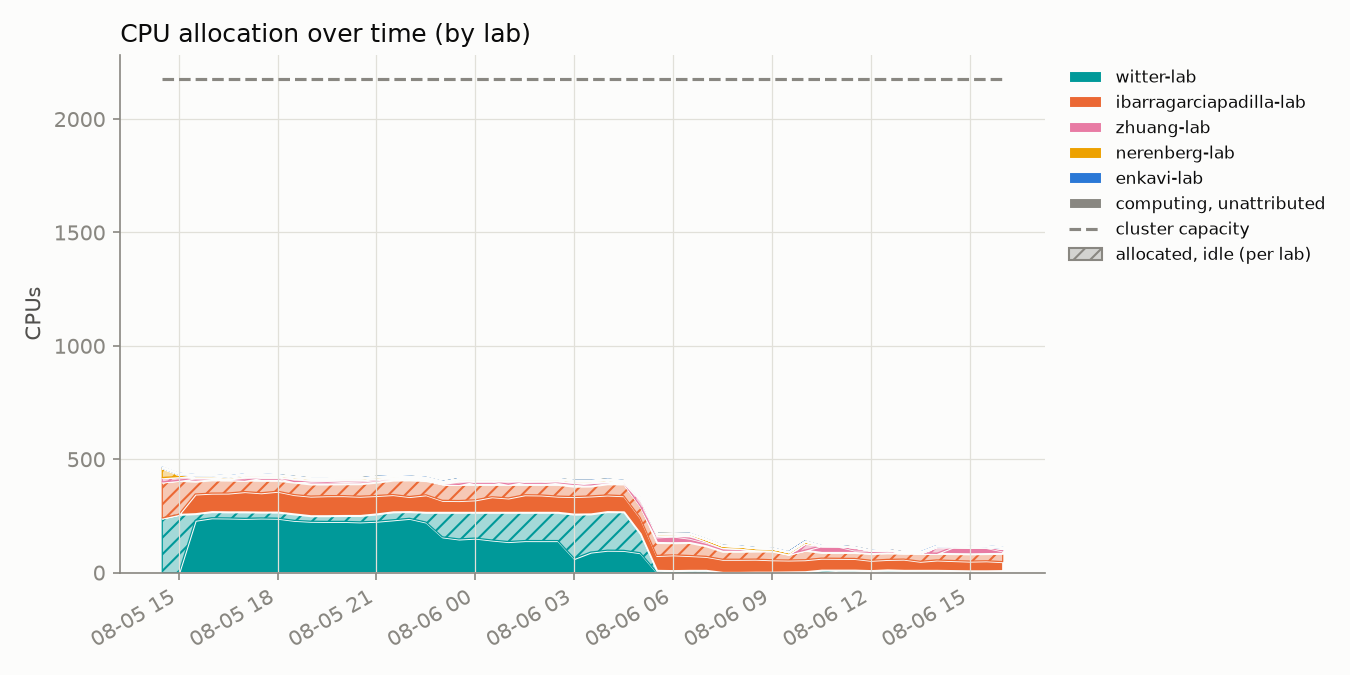
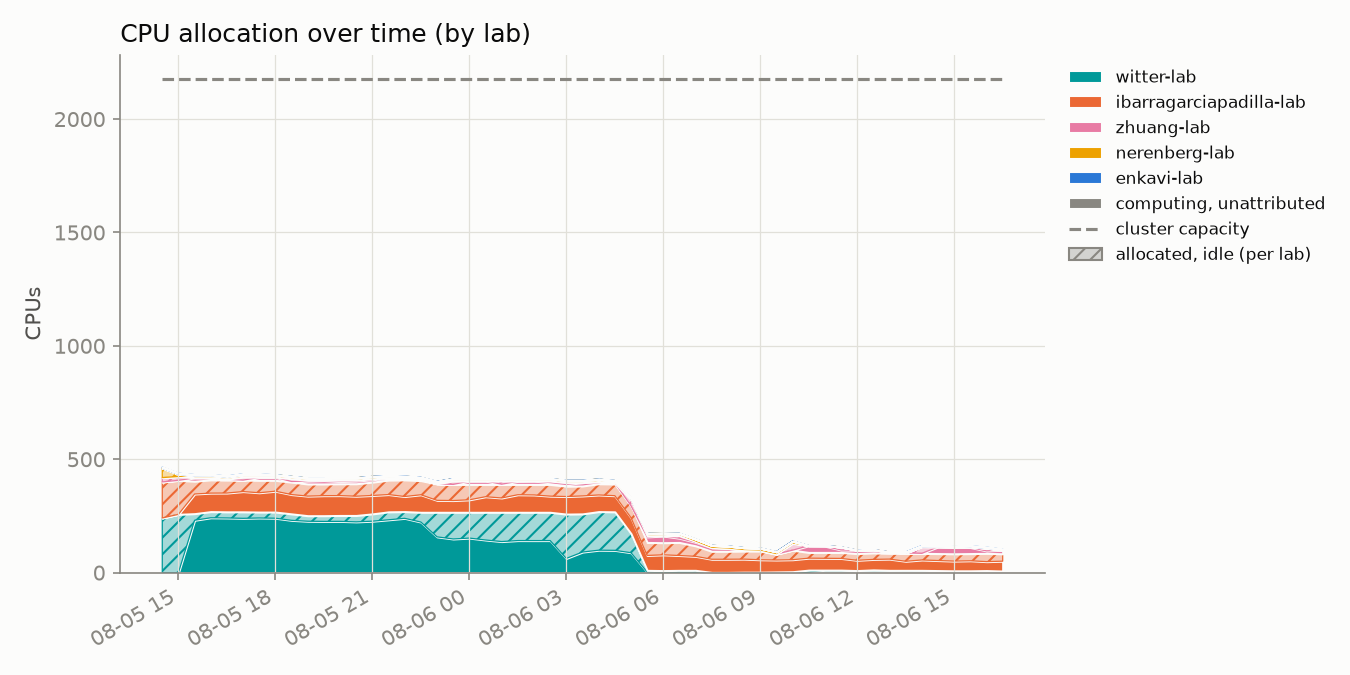
update 2026-08-06T16:30:01-07:00

diff --git a/README.md b/README.md
@@ -2,8 +2,8 @@
 
 Automated GPU/CPU/queue utilization tracker for `hopper.cluster`, updated every 30 minutes by cron. Usernames are anonymized to a stable per-account pseudonym; lab names are real.
 
-Last updated: 2026-08-06T16:00:19-07:00
-Samples: 52 queue snapshots, 52 GPU snapshots
+Last updated: 2026-08-06T16:30:18-07:00
+Samples: 53 queue snapshots, 53 GPU snapshots
 
 ## Resources
 
@@ -16,22 +16,22 @@ Samples: 52 queue snapshots, 52 GPU snapshots
 
 ## Headline
 
-- **67.1%** of the cluster's 60 GPUs allocated, averaged across all samples
-- **41.6%** average `nvidia-smi` utilization *when* a GPU is allocated to a job
-- **82.8%** average cgroup CPU utilization *when* a CPU is allocated to a job
+- **66.5%** of the cluster's 60 GPUs allocated, averaged across all samples
+- **41.8%** average `nvidia-smi` utilization *when* a GPU is allocated to a job
+- **82.9%** average cgroup CPU utilization *when* a CPU is allocated to a job
 
 ## Per lab / per user
 
 <table>
 <tr><th>Lab</th><th>User</th><th align='right'>GPU-hours allocated</th><th align='right'>CPU-hours allocated</th><th align='right'>GPU utilization</th></tr>
 <tr style='background-color:#d8efef'><td>witter-lab</td><td>user-d58f5a15</td><td align='right'>467.5</td><td align='right'>3740.0</td><td align='right'>9%</td></tr>
-<tr style='background-color:#fbebf1'><td>zhuang-lab</td><td>user-0db9ced0</td><td align='right'>418.5</td><td align='right'>418.5</td><td align='right'>49%</td></tr>
-<tr style='background-color:#d8efef'><td>witter-lab</td><td>user-554c620c</td><td align='right'>120.5</td><td align='right'>234.0</td><td align='right'>68%</td></tr>
+<tr style='background-color:#fbebf1'><td>zhuang-lab</td><td>user-0db9ced0</td><td align='right'>426.5</td><td align='right'>426.5</td><td align='right'>49%</td></tr>
+<tr style='background-color:#d8efef'><td>witter-lab</td><td>user-554c620c</td><td align='right'>124.0</td><td align='right'>237.5</td><td align='right'>69%</td></tr>
 <tr style='background-color:#fcf0d8'><td>nerenberg-lab</td><td>user-6bb5f332</td><td align='right'>40.0</td><td align='right'>200.0</td><td align='right'>71%</td></tr>
+<tr style='background-color:#fce8e0'><td>ibarragarciapadilla-lab</td><td>user-dad71a72</td><td align='right'>0.0</td><td align='right'>1.5</td><td align='right'>—</td></tr>
 <tr style='background-color:#fcf0d8'><td>nerenberg-lab</td><td>user-b12dc074</td><td align='right'>0.0</td><td align='right'>16.0</td><td align='right'>—</td></tr>
-<tr style='background-color:#dfeaf8'><td>enkavi-lab</td><td>user-c21bdaa4</td><td align='right'>0.0</td><td align='right'>26.0</td><td align='right'>—</td></tr>
-<tr style='background-color:#fce8e0'><td>ibarragarciapadilla-lab</td><td>user-3cfc41a3</td><td align='right'>0.0</td><td align='right'>2737.5</td><td align='right'>—</td></tr>
-<tr style='background-color:#fce8e0'><td>ibarragarciapadilla-lab</td><td>user-dad71a72</td><td align='right'>0.0</td><td align='right'>1.0</td><td align='right'>—</td></tr>
+<tr style='background-color:#dfeaf8'><td>enkavi-lab</td><td>user-c21bdaa4</td><td align='right'>0.0</td><td align='right'>28.0</td><td align='right'>—</td></tr>
+<tr style='background-color:#fce8e0'><td>ibarragarciapadilla-lab</td><td>user-3cfc41a3</td><td align='right'>0.0</td><td align='right'>2775.0</td><td align='right'>—</td></tr>
 <tr style='background-color:#fce8e0'><td>ibarragarciapadilla-lab</td><td>user-eec7ffae</td><td align='right'>0.0</td><td align='right'>234.5</td><td align='right'>—</td></tr>
 </table>
 
@@ -43,7 +43,7 @@ Samples: 52 queue snapshots, 52 GPU snapshots
 
 Solid = utilized by lab, hatched = allocated but idle, gray = usage not traceable to a lab, dashed line = cluster capacity.
 
-Attribution combines `nvidia-smi`'s process listing with Slurm's GPU-to-job binding record; the latter caught **1587** readings the former missed.
+Attribution combines `nvidia-smi`'s process listing with Slurm's GPU-to-job binding record; the latter caught **1605** readings the former missed.
 
 ## Queue
 
@@ -55,13 +55,13 @@ Attribution combines `nvidia-smi`'s process listing with Slurm's GPU-to-job bind
 
 ![CPU usage vs GPU usage, decayed](assets/cpu_gpu_usage.png)
 
-One point per user per snapshot (n=287), usage decayed on Slurm's ~7-day fairshare half-life.
+One point per user per snapshot (n=292), usage decayed on Slurm's ~7-day fairshare half-life.
 
 **GPU usage doesn't count toward priority on this cluster** (`TRESBillingWeights`/`PriorityWeightTRES` unset) - watch the **upper-left**: low CPU usage (high priority) with high GPU usage.
 
 ## Recommendations
 
-1. **Weight GPU usage in fairshare.** `TRESBillingWeights` and `PriorityWeightTRES` are both unset right now, so Slurm's fairshare score only sees CPU-seconds - a job holding 4 idle L40S GPUs costs nothing in priority as long as it isn't also holding CPUs. That's the exact failure mode the scatter above is built to catch (upper-left: low CPU usage, high GPU usage). Fix: `scontrol update partition=main TRESBillingWeights=CPU=1.0,GRES/gpu=<weight>` (or set `PriorityWeightTRES` cluster-wide), then `scontrol reconfigure` - a full `slurmctld` restart also works but drops in-flight priority state. A reasonable starting point for `<weight>` is the CPUs-per-GPU ratio on a GPU node (128 CPUs / 4 GPUs = 32), so one GPU costs as much fairshare as the CPU share it displaces; tune from there against next week's headline numbers (67.1% allocated, 41.6% utilized when allocated, as of this snapshot). The weight value itself is a policy call - loop in whoever owns cluster allocation policy before changing it.
+1. **Weight GPU usage in fairshare.** `TRESBillingWeights` and `PriorityWeightTRES` are both unset right now, so Slurm's fairshare score only sees CPU-seconds - a job holding 4 idle L40S GPUs costs nothing in priority as long as it isn't also holding CPUs. That's the exact failure mode the scatter above is built to catch (upper-left: low CPU usage, high GPU usage). Fix: `scontrol update partition=main TRESBillingWeights=CPU=1.0,GRES/gpu=<weight>` (or set `PriorityWeightTRES` cluster-wide), then `scontrol reconfigure` - a full `slurmctld` restart also works but drops in-flight priority state. A reasonable starting point for `<weight>` is the CPUs-per-GPU ratio on a GPU node (128 CPUs / 4 GPUs = 32), so one GPU costs as much fairshare as the CPU share it displaces; tune from there against next week's headline numbers (66.5% allocated, 41.8% utilized when allocated, as of this snapshot). The weight value itself is a policy call - loop in whoever owns cluster allocation policy before changing it.
 
 2. **Escalate on sustained low utilization** (see table and scatter above). Right now the clearest candidate is `user-d58f5a15` in `witter-lab`: 467.5 GPU-hours allocated at 9% average utilization, i.e. roughly 424 GPU-hours that sat idle instead of going to someone in the queue. Turning that into an automated escalation needs two decisions made up front: a utilization threshold (something like under 20% mean utilization over at least 50 allocated GPU-hours is a defensible starting bar - loose enough to skip short debugging runs, tight enough to catch parked allocations) and a grace period (how many consecutive low-utilization snapshots before it counts as "sustained" rather than a momentary lull between batches). Once those are set, the mechanism can be either soft (a bot that reads `data/gpu_samples.jsonl` and reminds the user/lab by email or Slack) or hard (a Slurm-side QOS penalty, e.g. `sacctmgr modify qos <qos> set Priority-=<n>`, applied after N consecutive offending snapshots). Neither exists yet - today the table and scatter above are a read-only signal, not an enforced policy.
 
